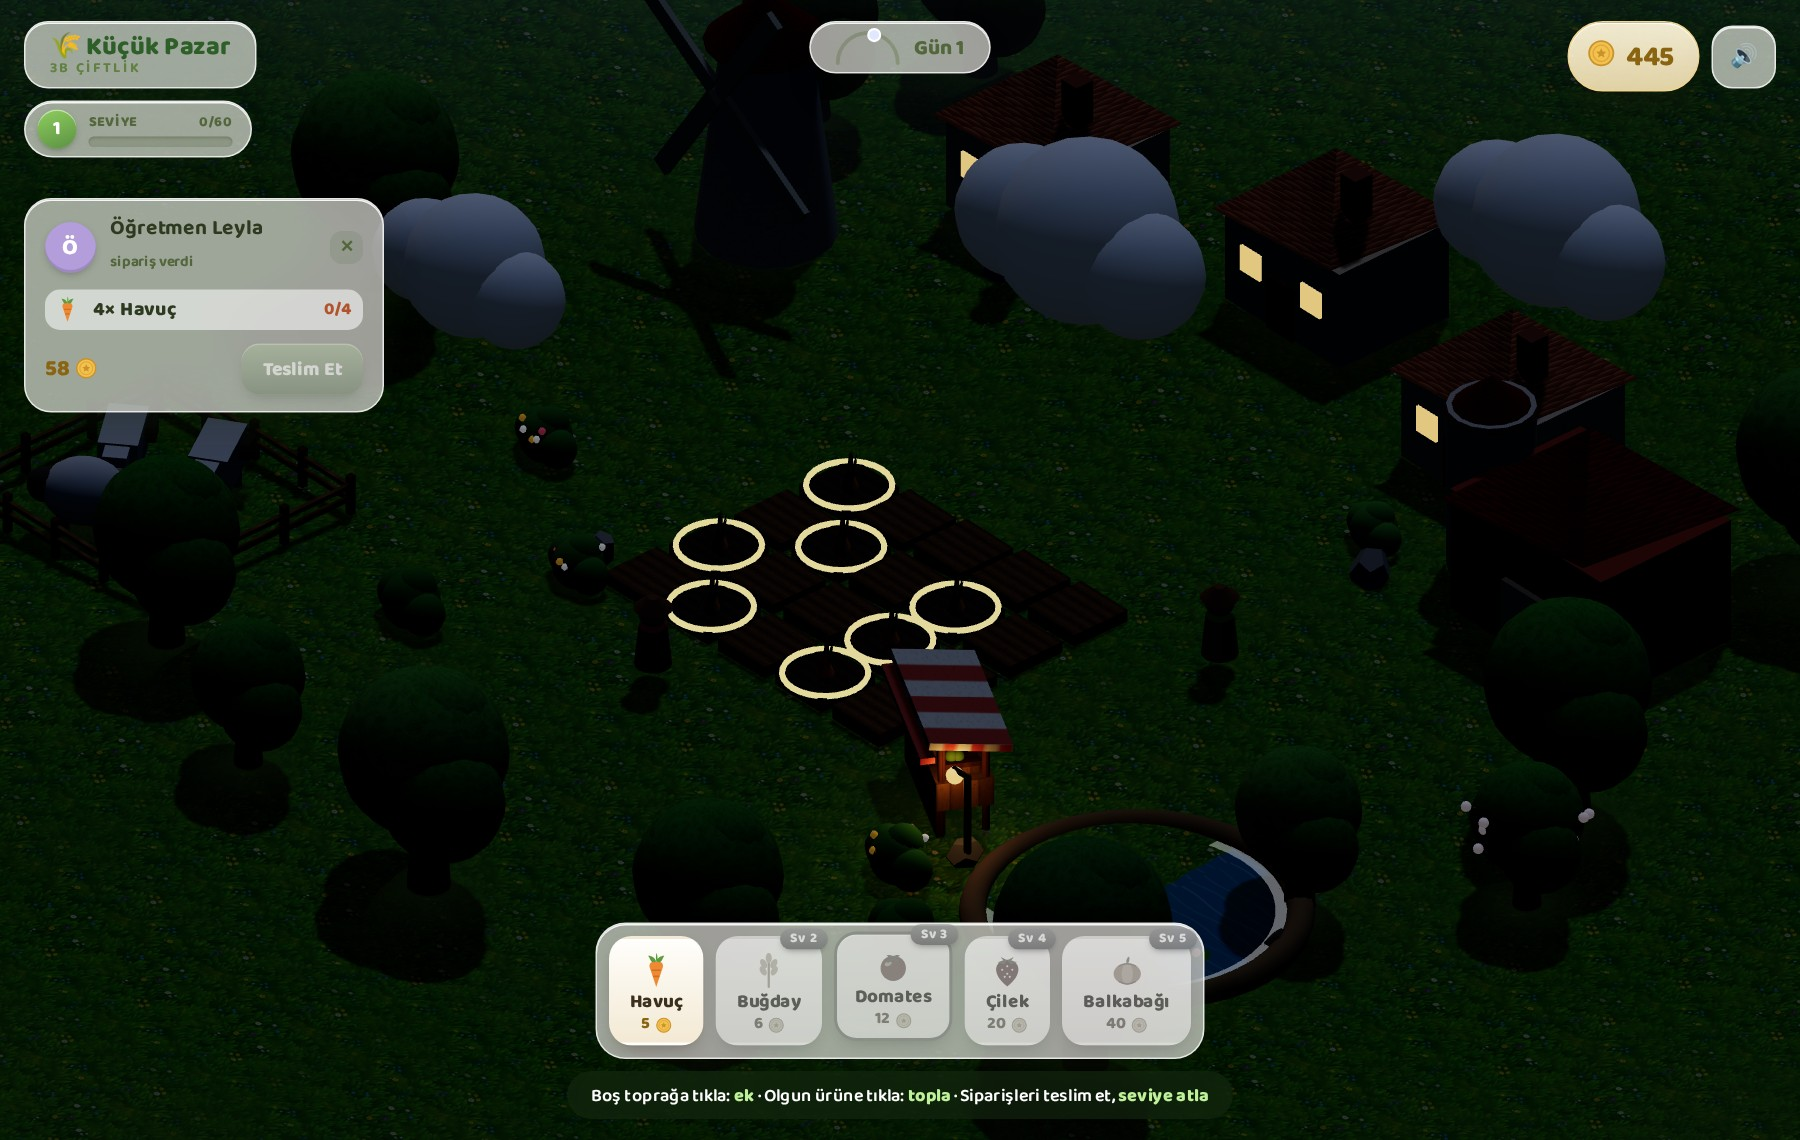
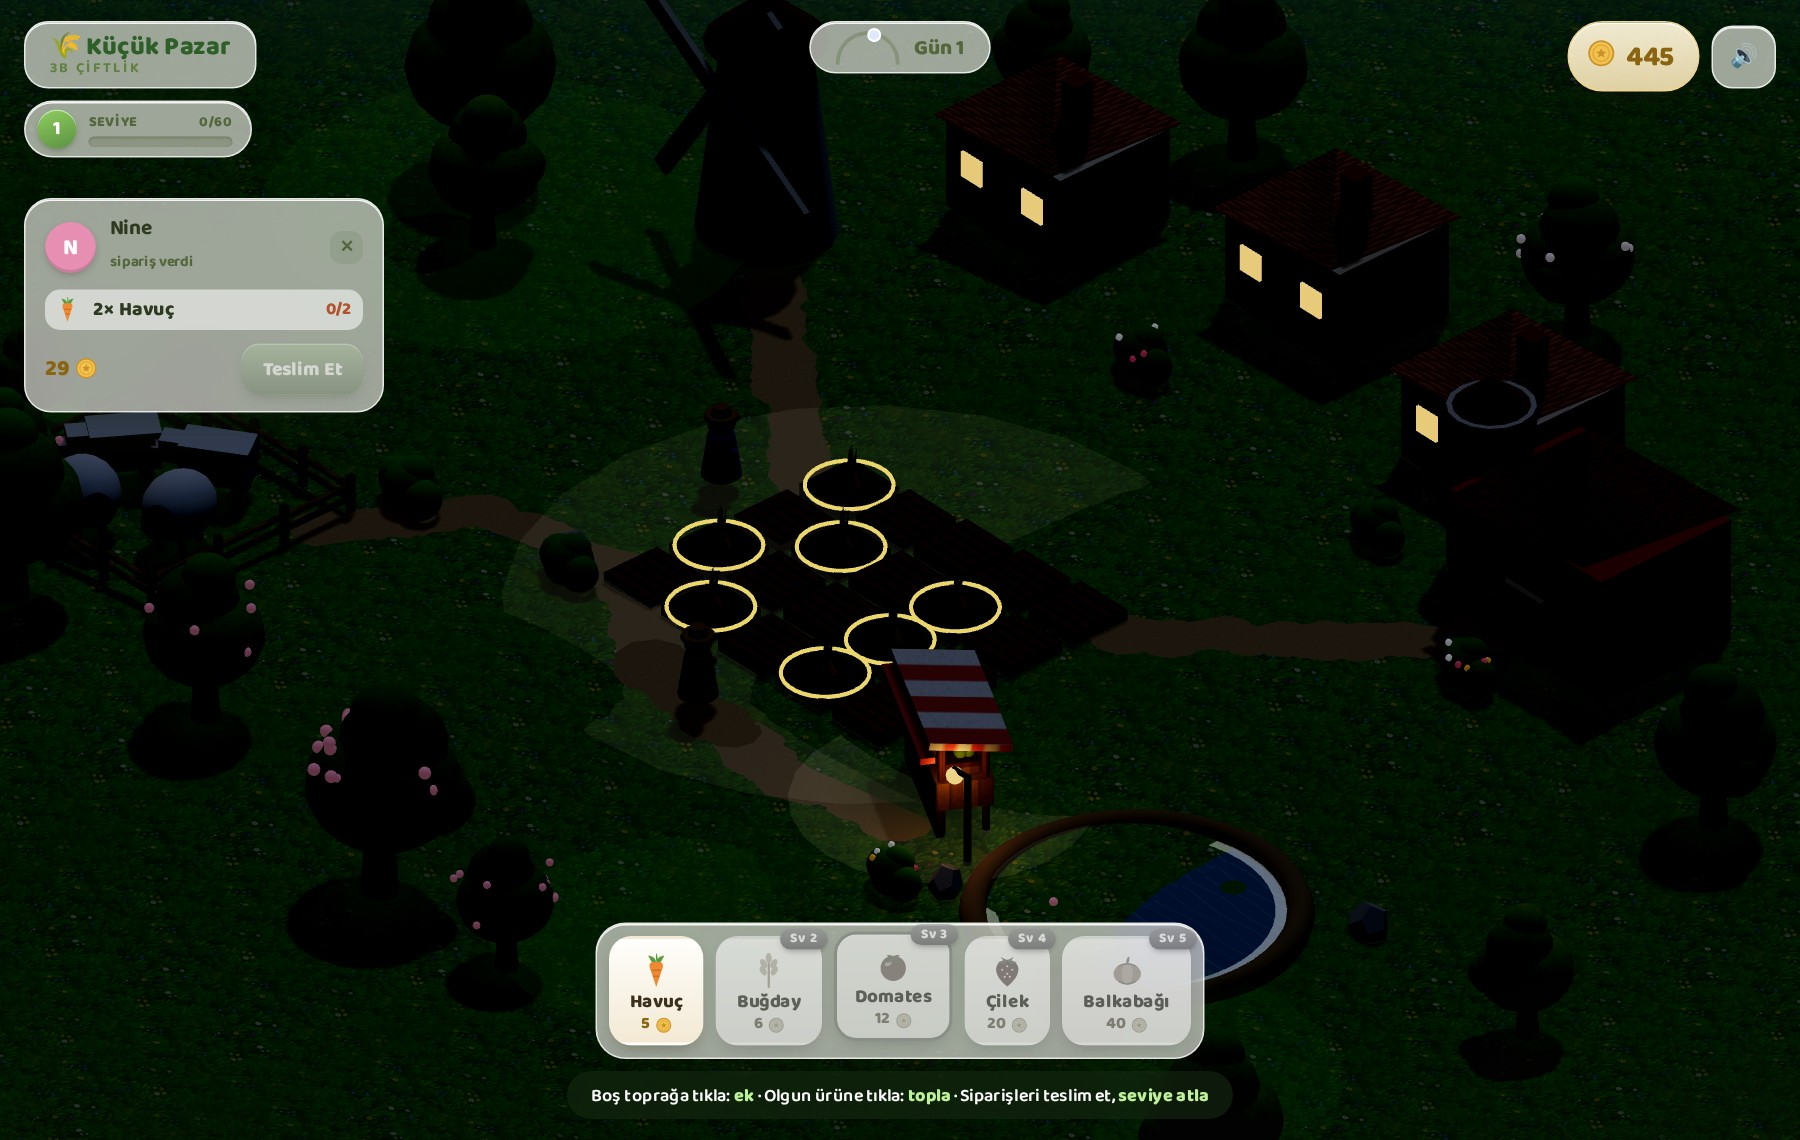
3d: design pass — village paths, curated composition, better nature and NPCs
Attacks the actual sources of the "programmer art" feel:

- Dirt paths: winding stepping-stone trails (textured, terrain-following)
  connect windmill -> farm -> market stall -> barn and out to the pasture
  gate. The scene now has structure and flow instead of scattered objects.
- Trees rebuilt: layered canopy silhouette (stacked flattened lobes + side
  lobe) with five green palettes and random rotation for variety; layout is
  hand-curated into framing clusters instead of a random ring. Two trees
  whose canopies projected onto the pond in screen space (found by probing
  with the projection helper, not by eye) were moved off the sightline.
- Clouds: fewer, larger, flattened and raised to y 24-27 so they read as sky
  instead of marshmallows sitting on the windmill.
- Villagers: proper little characters — tapered body, apron, arms, head and
  brimmed hat — replacing the bare cones.
- Meadow tint discs add subtle shade under tree clusters and warm glow around
  the farm/stall; ripe rings are thinner and softer gold; whole-canvas color
  grade (saturate 1.07 / contrast 1.045 via CSS filter on the WebGL canvas
  only — HUD unaffected) plus a slightly higher exposure.

Gameplay regression suite still green (plant/lock, harvest->inventory, order
delivery, sell-all, level-ups); zero console errors. Previews refreshed.

diff --git a/cozy-farm-market/3d/scene.js b/cozy-farm-market/3d/scene.js
@@ -6,6 +6,7 @@ renderer.setPixelRatio(Math.min(devicePixelRatio||1,2));
 renderer.shadowMap.enabled=true; renderer.shadowMap.type=THREE.PCFSoftShadowMap;
 renderer.toneMapping=THREE.ACESFilmicToneMapping; renderer.toneMappingExposure=1.14;
 renderer.outputColorSpace=THREE.SRGBColorSpace;
+cvs.style.filter='saturate(1.07) contrast(1.045)';
 const scene=new THREE.Scene();
 const skyCv=document.createElement('canvas');skyCv.width=8;skyCv.height=256;
 const skyCtx=skyCv.getContext('2d');
@@ -79,7 +80,7 @@ function applyDayNight(t){
   sunOrb.material.color.set(night>.5?0xdfe8ff:0xfff4d0);
   sunHalo.material.opacity=.5*(1-night)+.18*night;
   fill.intensity=0.32*(si/2.9)+0.03;
-  renderer.toneMappingExposure=1.14-0.16*night;
+  renderer.toneMappingExposure=1.18-0.2*night;
   stars.material.opacity=night;
   windowMat.emissiveIntensity=night*0.95;
   if(lanternMat){lanternMat.emissiveIntensity=night*1.1;}
@@ -206,15 +207,16 @@ function ao(x,z,r,op){const m=new THREE.Mesh(new THREE.PlaneGeometry(r*2,r*2),op
 // ---- backdrop village ----
 const trees=[];
 function tree(x,z,s){s=s||1;const g=new THREE.Group();
-  const tr=cyl(0.26*s,0.42*s,2.2*s,barkMat);tr.position.y=1.05*s;g.add(tr);
-  const pal=[[0x5aa53c,0x4f9636],[0x6cb04a,0x559a38],[0x529b46,0x408a3a]][Math.floor(Math.random()*3)];
+  const tr=cyl(0.24*s,0.4*s,2.0*s,barkMat);tr.position.y=1.0*s;g.add(tr);
+  const pal=[[0x5aa53c,0x4c9134],[0x6cb04a,0x559a38],[0x4f9646,0x3f7d38],[0x7ab84e,0x62a03e],[0x8fbb4f,0x6fa03c]][Math.floor(Math.random()*5)];
   const fo=new THREE.Group();
-  fo.add(at(sph(1.6*s,leafMat(pal[0])),0,2.9*s,0));
-  fo.add(at(sph(1.15*s,leafMat(pal[1])),1*s,2.4*s,.4*s));
-  fo.add(at(sph(1.15*s,leafMat(pal[1])),-.9*s,2.5*s,-.3*s));
-  fo.add(at(sph(1.0*s,leafMat(pal[0])),.2*s,3.55*s,-.2*s));
-  if(Math.random()<.3){const bc=Math.random()<.5?0xffb3c9:0xfff2f6;for(let k=0;k<16;k++){const bd=sph(.15*s,new THREE.MeshStandardMaterial({color:bc,roughness:.8,emissive:bc,emissiveIntensity:.12}));const a=Math.random()*6.3,rd=(1.25+Math.random()*.55)*s;bd.position.set(Math.cos(a)*rd,(2.5+Math.random())*s,Math.sin(a)*rd);bd.castShadow=false;fo.add(bd);}}
-  g.add(fo);g.position.set(x,gh(x,z),z);scene.add(g);ao(x,z,1.9*s,.85);trees.push({g:fo,ph:Math.random()*6.3,amp:.03+Math.random()*.03});}
+  const b1=sph(1.5*s,leafMat(pal[0]));b1.scale.set(1.06,.88,1.06);b1.position.y=2.55*s;fo.add(b1);
+  const b2=sph(1.12*s,leafMat(pal[1]));b2.scale.set(1,.9,1);b2.position.set(.16*s,3.45*s,-.06*s);fo.add(b2);
+  const b3=sph(.72*s,leafMat(pal[0]));b3.position.set(-.06*s,4.18*s,.1*s);fo.add(b3);
+  const lb=sph(.85*s,leafMat(pal[1]));lb.scale.set(1,.8,1);lb.position.set(.95*s,2.35*s,.35*s);fo.add(lb);
+  if(Math.random()<.28){const bc=Math.random()<.5?0xffb3c9:0xfff2f6;for(let k=0;k<14;k++){const bd=sph(.13*s,new THREE.MeshStandardMaterial({color:bc,roughness:.8,emissive:bc,emissiveIntensity:.12}));const a=Math.random()*6.3,rd=(1.1+Math.random()*.6)*s;bd.position.set(Math.cos(a)*rd,(2.4+Math.random()*1.4)*s,Math.sin(a)*rd);bd.castShadow=false;fo.add(bd);}}
+  g.add(fo);g.rotation.y=Math.random()*6.3;g.position.set(x,gh(x,z),z);scene.add(g);ao(x,z,1.8*s,.8);
+  trees.push({g:fo,ph:Math.random()*6.3,amp:.03+Math.random()*.03});}
 // ---- extra props: market stall, fence, rocks, bushes ----
 const woodMat=woodPlankMat, woodDk=woodPlankDk;
 function rock(x,z,s){s=s||1;const m=new THREE.Mesh(new THREE.DodecahedronGeometry(0.5*s,0),MAT(0xa9a6a0,.95));m.castShadow=true;m.receiveShadow=true;m.position.set(x,gh(x,z)+0.12*s,z);m.rotation.set(Math.random(),Math.random(),Math.random());m.scale.y=0.7;scene.add(m);}
@@ -246,19 +248,38 @@ function pond(x,z){const p=new THREE.Mesh(new THREE.CircleGeometry(3.6,40),water
 function cow(x,z){const g=new THREE.Group();g.add(at(box(1.6,.95,.9,MAT(0xfaf6ee,.85)),0,1,0));g.add(at(box(.5,.38,.48,MAT(0x4a4038,.85)),.38,1.15,.45));g.add(at(box(.65,.55,.55,MAT(0xfaf6ee,.85)),-.95,1.15,0));g.add(at(box(.38,.32,.38,MAT(0xf3c9c2,.85)),-1.28,1,0));for(const[a,b]of[[.5,.28],[.5,-.28],[-.38,.28],[-.38,-.28]]){const l=cyl(.13,.13,.85,MAT(0xd7cdbc,.9));l.position.set(a,.42,b);g.add(l);}g.position.set(x,gh(x,z),z);g.rotation.y=Math.random()*3;ao(x,z,1.3,.7);scene.add(g);}
 function sheep(x,z){const g=new THREE.Group();const bo=sph(.8,MAT(0xfbf7ee,.95));bo.position.y=1.05;bo.scale.set(1.2,.95,1);g.add(bo);g.add(at(sph(.4,MAT(0x5f5750,.85)),-.9,1.1,0));for(const[a,b]of[[.38,.28],[.38,-.28],[-.38,.28],[-.38,-.28]]){const l=cyl(.1,.1,.75,MAT(0x5f5750,.9));l.position.set(a,.38,b);g.add(l);}g.position.set(x,gh(x,z),z);g.rotation.y=Math.random()*3;ao(x,z,1.3,.7);scene.add(g);}
 const clouds=[];
-function cloud(x,y,z,s){const g=new THREE.Group();const m=new THREE.MeshStandardMaterial({color:0xffffff,roughness:1,emissive:0x99aabb,emissiveIntensity:.05});[[0,0,0,1.6],[1.4,-.2,0,1.1],[-1.3,-.1,.3,1.15],[.3,.4,.2,1]].forEach(([a,b,c,r])=>{const q=sph(r*s,m);q.position.set(a*s,b*s,c*s);q.castShadow=false;g.add(q);});g.position.set(x,y,z);scene.add(g);clouds.push({g,sp:.4+Math.random()*.5});}
+function cloud(x,y,z,s){const g=new THREE.Group();const m=new THREE.MeshStandardMaterial({color:0xffffff,roughness:1,emissive:0xbfd0e0,emissiveIntensity:.14});[[0,0,0,1.6],[1.4,-.2,0,1.1],[-1.3,-.1,.3,1.15],[.3,.4,.2,1]].forEach(([a,b,c,r])=>{const q=sph(r*s,m);q.position.set(a*s,b*s,c*s);q.castShadow=false;g.add(q);});g.scale.y=.55;g.position.set(x,y,z);scene.add(g);clouds.push({g,sp:.3+Math.random()*.35});}
 const npcs=[];
-function npc(pts,col,spd){const g=new THREE.Group();g.add(at(cyl(.32,.42,1,MAT(col,.85)),0,.9,0));g.add(at(sph(.34,MAT(0xf0c9a0,.8)),0,1.75,0));g.add(at(cyl(.12,.44,.28,MAT(0x8a5a34,.85)),0,2,0));scene.add(g);npcs.push({g,pts,t:Math.random(),spd:spd||.06});}
+function npc(pts,col,spd){const g=new THREE.Group();
+  const body=cyl(.3,.46,1.05,MAT(col,.85));body.position.y=.9;g.add(body);
+  g.add(at(cyl(.315,.42,.34,MAT(0xfaf3e2,.9)),0,.6,0));
+  for(const sx of[-1,1]){const a=sph(.11,MAT(col,.85));a.position.set(sx*.38,1.08,.03);g.add(a);}
+  g.add(at(sph(.32,MAT(0xf0c9a0,.8)),0,1.72,0));
+  g.add(at(cyl(.36,.4,.09,MAT(0x9a6b3a,.85)),0,1.9,0));
+  g.add(at(cyl(.17,.25,.22,MAT(0x9a6b3a,.85)),0,2.02,0));
+  scene.add(g);npcs.push({g,pts,t:Math.random(),spd:spd||.06});}
 
 // layout: farm in center-front, village behind/edges
+const T_dirt=mkTex(256,(x,s)=>{x.fillStyle='#c2a06b';x.fillRect(0,0,s,s);for(let i=0;i<1500;i++){x.fillStyle=['#b5934f','#cfae7a','#a8854f','#d8bc8a'][i&3];x.globalAlpha=.5;x.fillRect(Math.random()*s,Math.random()*s,rr(1.5,4),rr(1.5,4));}x.globalAlpha=1;},1);
+const dirtMat=new THREE.MeshStandardMaterial({map:T_dirt,roughness:1});
+function dirtPath(pts,w){let li=0;for(let i=0;i<pts.length-1;i++){const x1=pts[i][0],z1=pts[i][1],x2=pts[i+1][0],z2=pts[i+1][1];const L=Math.hypot(x2-x1,z2-z1);const n=Math.max(2,Math.round(L/0.55));for(let k=0;k<=n;k++){const f=k/n,px=x1+(x2-x1)*f,pz=z1+(z2-z1)*f;const d=new THREE.Mesh(new THREE.CircleGeometry((w||0.75)*rr(.8,1.1),10),dirtMat);d.rotation.x=-Math.PI/2;d.rotation.z=Math.random()*3;d.position.set(px+rr(-.12,.12),gh(px,pz)+0.025+(li++)*0.0004,pz+rr(-.12,.12));d.receiveShadow=true;scene.add(d);}}}
+(function(){const mk=(x,z,r,c,o)=>{const m=new THREE.Mesh(new THREE.CircleGeometry(r,24),new THREE.MeshBasicMaterial({color:c,transparent:true,opacity:o,depthWrite:false}));m.rotation.x=-Math.PI/2;m.position.set(x,gh(x,z)+0.014,z);scene.add(m);};
+mk(-15,13,6.5,0x2e5c20,.13);mk(-17,-2,5.5,0x2e5c20,.11);mk(4,16.5,6,0x2e5c20,.11);mk(18,11,5,0x2e5c20,.09);mk(0,2.5,8,0xffe9a8,.07);mk(7,6.4,3.4,0xffe9a8,.09);})();
 barn(11,-9);cottage(-9,-11,0xf0e2c4);cottage(-2,-13,0xe8d2b0);cottage(5,-12,0xf2dcc0);windmill(-13,-6);pond(13,6);
-[[15,3],[16,-4],[-16,-10],[9,15],[-9,15],[17,11],[-17,2],[13,-14],[-15,-14],[2,17],[-4,17],[18,-1]].forEach(([x,z])=>tree(x,z,.75+Math.random()*.5));
+dirtPath([[7,7.6],[3.5,8.3],[-1,7.7],[-4.9,5.4]],.8);
+dirtPath([[-4.9,5.4],[-8.5,6.2],[-10.2,9.4]],.7);
+dirtPath([[4.9,-0.6],[8,-4],[10,-7.1]],.75);
+dirtPath([[-4.9,0],[-8.5,-2.6],[-11.4,-4.7]],.7);
+[[-19,-3,1.05],[-16.5,-.8,.78],[-13,16,1.0],[-15.5,14,.72],[-18,11,.58],
+ [1.5,18,1.1],[5.5,17.8,.68],[-6,16.5,.85],
+ [23,12.5,.95],[22,2.5,.68],[18.5,-6,.85],
+ [-8,-15.5,.9],[-12.5,-13.5,.68],[2,-16.5,.8]].forEach(([x,z,s])=>tree(x,z,s));
 cow(-13,10);cow(-15,11);sheep(-12,12);sheep(-14,13);
 marketStall(7,6.2);
 fence(-16.8,8.4,-10.4,8.4,4);fence(-10.4,8.4,-10.4,14.2,3);fence(-16.8,8.4,-16.8,14.2,3);fence(-16.8,14.2,-10.4,14.2,4);
-[[9,7.5],[-5.5,5.5],[6.5,-6.5],[16,4.5],[-8,-9]].forEach(([x,z])=>rock(x,z,.8+Math.random()*.5));
-[[-5,6.5],[8.5,9],[-9.5,3.5],[5.5,-7.5],[-6,10.5],[15,9],[11,11],[-17,5]].forEach(([x,z])=>bush(x,z,.85+Math.random()*.4));
-cloud(-15,16,-8,1.6);cloud(11,18,7,1.3);cloud(0,15,15,1);cloud(17,17,-2,1.2);
+[[9.6,8.6],[-6,5.9],[16.6,2.4]].forEach(([x,z])=>rock(x,z,.8+Math.random()*.4));
+[[-5.2,6.6],[8.8,9.4],[5.5,-7.6],[-9.8,7.2],[15.6,9.8],[-17.5,6.5],[11,-5.4],[-3,-8.2]].forEach(([x,z])=>bush(x,z,.85+Math.random()*.35));
+cloud(-20,25,-9,2.0);cloud(12,27,9,1.7);cloud(-2,24,-16,1.45);
 (function(){const x=9.2,z=7.6,y0=gh(x,z);
   const post=cyl(.09,.09,2.3,woodPlankDk);post.position.set(x,y0+1.15,z);scene.add(post);
   const arm=box(.5,.09,.09,woodPlankDk);arm.position.set(x-.22,y0+2.28,z);scene.add(arm);
@@ -286,7 +307,7 @@ for(let r=0;r<ROWS;r++)for(let c=0;c<COLS;c++){
   const y=gh(x,z);
   const tile=box(1.55,0.35,1.55,soilMat); tile.position.set(x,y+0.15,z); tile.receiveShadow=true; scene.add(tile);
   const cropHolder=new THREE.Group(); cropHolder.position.set(x,y+0.3,z); scene.add(cropHolder);
-  const ring=new THREE.Mesh(new THREE.TorusGeometry(0.95,0.07,8,28),new THREE.MeshBasicMaterial({color:0xffe27a}));
+  const ring=new THREE.Mesh(new THREE.TorusGeometry(0.92,0.045,8,30),new THREE.MeshBasicMaterial({color:0xffd34d,transparent:true,opacity:.92}));
   ring.rotation.x=-Math.PI/2; ring.position.set(x,y+0.34,z); ring.visible=false; scene.add(ring);
   const i=plots.length;
   tile.userData={plot:i};
@@ -423,7 +444,7 @@ function loop(now){const dt=Math.min((now-last)/1000,.05);last=now;const t=now/1
   updClock();updParts(dt);
   if(blades)blades.rotation.z+=dt*0.6; T_water.offset.x+=dt*0.02; T_water.offset.y+=dt*0.01;
   for(const tr of trees){tr.g.rotation.z=Math.sin(t*1.2+tr.ph)*tr.amp;}
-  for(const c of clouds){c.g.position.x+=dt*c.sp;if(c.g.position.x>28)c.g.position.x=-28;}
+  for(const c of clouds){c.g.position.x+=dt*c.sp;if(c.g.position.x>34)c.g.position.x=-34;}
   for(const n of npcs){n.t+=dt*n.spd/segLen(n.pts);if(n.t>=1)n.t-=1;const a=path(n.pts,n.t),b=path(n.pts,(n.t+.01)%1);n.g.position.set(a.x,gh(a.x,a.z)+Math.abs(Math.sin(t*8))*.06,a.z);n.g.rotation.y=Math.atan2(b.x-a.x,b.z-a.z);}
   const nowMs=Date.now();
   for(const p of plots){ if(p.state==='empty'||!p.cropObj)continue; const c=CROPS[p.crop]; const prog=(nowMs-p.planted)/(c.grow*1000); const ripe=prog>=1; p.cropObj.update(prog,ripe);

diff --git a/cozy-farm-market/README.md b/cozy-farm-market/README.md
@@ -24,9 +24,11 @@ otomatik kaydedilir (localStorage).
 > yakınlaştır. Ekonomi + `localStorage` kayıt (v2 şema, eski kayıtla uyumlu). Teknik: gerçek izometrik 3B
 > geometri, gerçek zamanlı yumuşak gölgeler (shadow map), PBR malzemeler, ACES filmik tonlama,
 > raycast tıklama, rüyet fonunda dönen değirmen + yürüyen köylüler + otlayan hayvanlar. Sahne
-> **el işi ile zenginleştirildi**: çizgili tenteli **pazar tezgahı** + ürün sandıkları, **çitli
-> mera**, çiçekli çalılar, kayalar, çiçek açan (pembe) ağaçlar ve premium bir çerçeve hissi için
-> **vinyet**. **Zemin dokusu el boyaması** (üretilen görsel; kenarlarda çapraz-geçiş ile
+> **el işi ile zenginleştirildi**: köyü birbirine bağlayan **kıvrımlı toprak patikalar** (değirmen
+> → tarla → tezgah → ahır → mera), çizgili tenteli **pazar tezgahı** + ürün sandıkları, **çitli
+> mera**, katmanlı siluetli ve 5 renk paletli ağaçlar (bazıları pembe çiçekli), şapkalı/önlüklü
+> **köylüler**, çiçekli çalılar, kayalar, çayır ton geçişleri ve premium çerçeve için **vinyet** +
+> hafif doygunluk/kontrast grade'i. **Zemin dokusu el boyaması** (üretilen görsel; kenarlarda çapraz-geçiş ile
 > **dikişsiz** hale getirilip base64 olarak gömüldü — bkz. `3d/textures/grass.jpg`). Diğer
 > malzemeler **prosedürel el işi** — kod içinde `<canvas>` ile çizilip `THREE.CanvasTexture` +
 > `bumpMap` olarak uygulanır: kiremitli terracotta çatı, sıvalı duvar, sürülmüş toprak, **kalas
